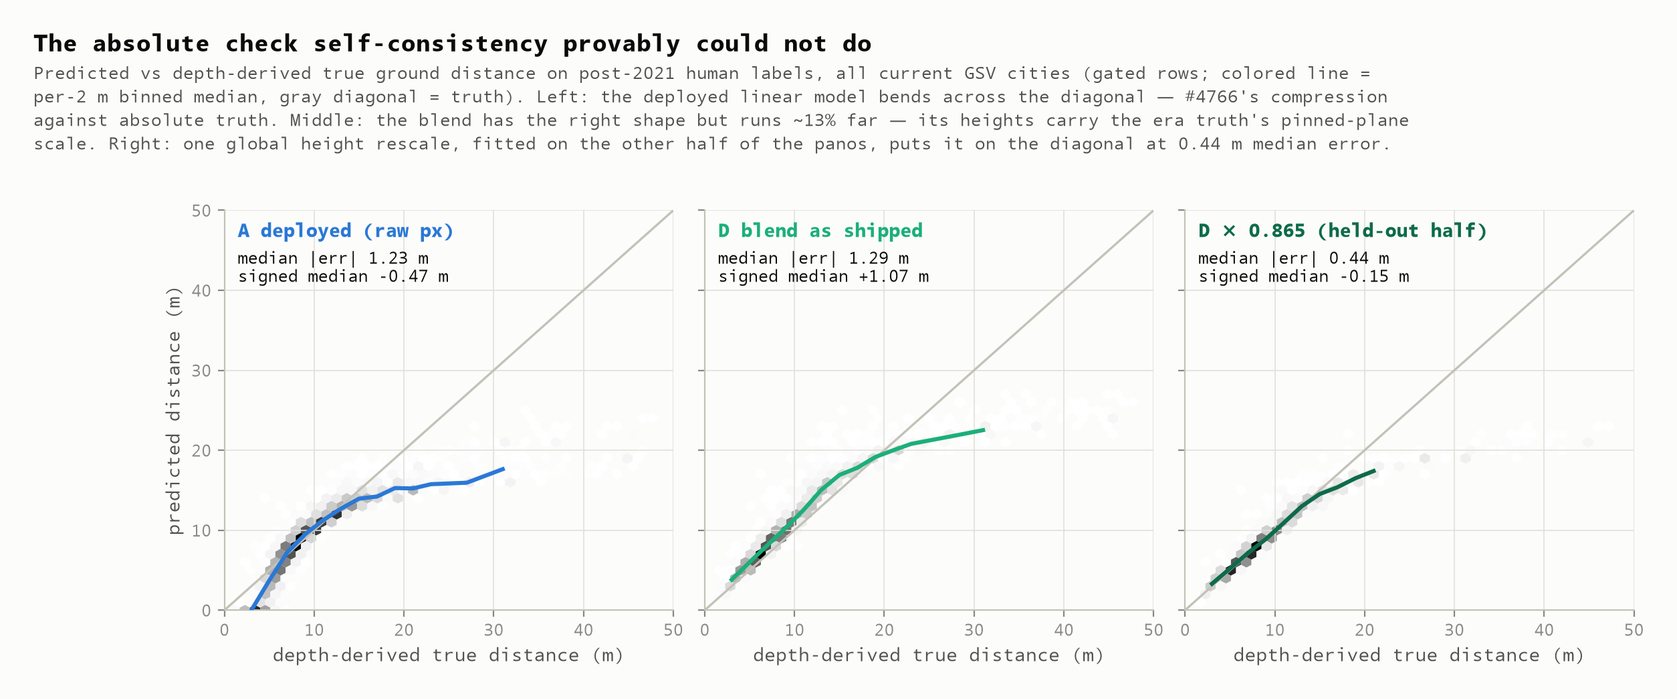
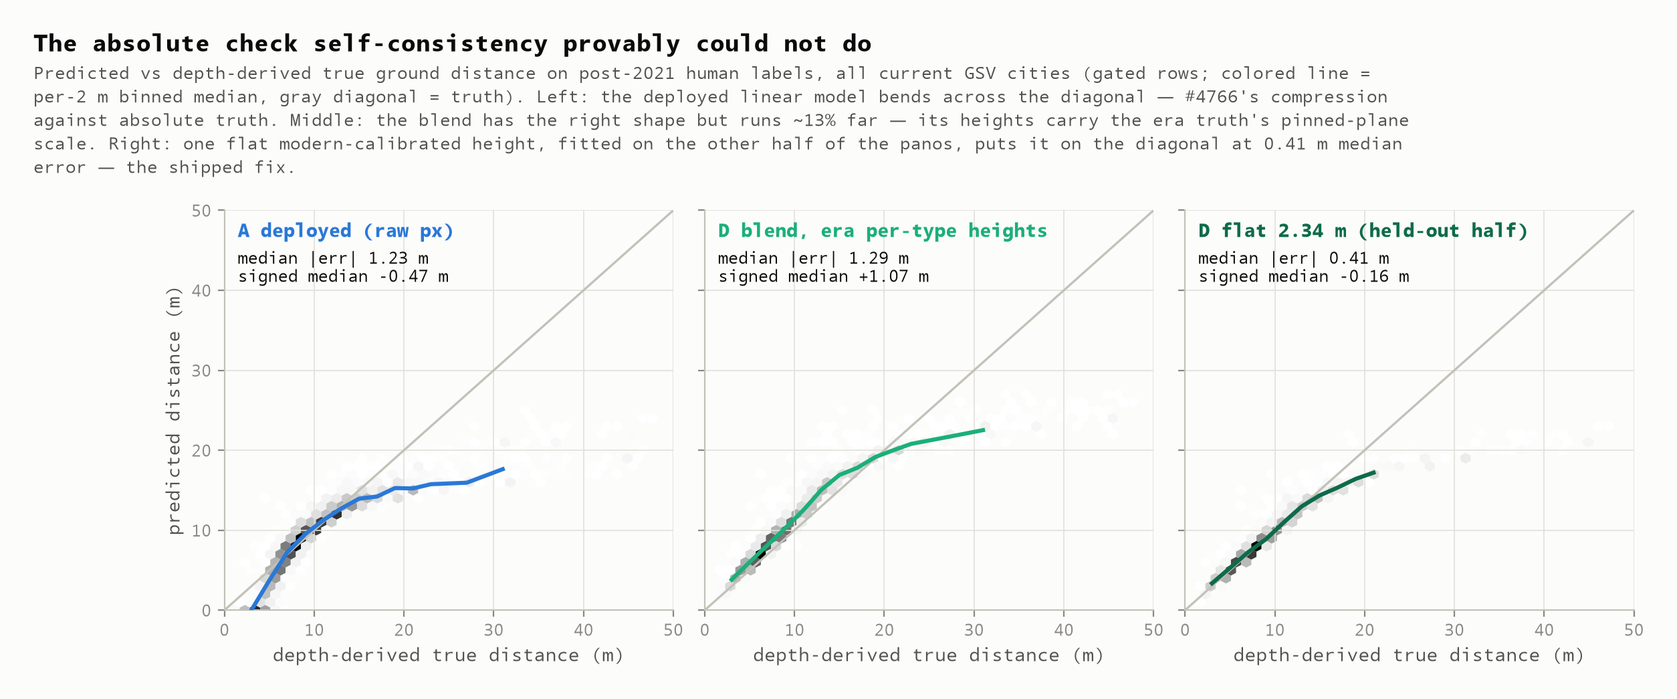
Stage 4 closure: the flat modern-calibrated height ships as final_coefficients (#3)
Decision recorded (tradeoffs articulated in the report's new §9 section):
one flat 2.3412 m height replaces the era per-type table - held-out
accuracy at least as good as the global rescale (0.41 vs 0.44 m median,
against 1.17 m for the deployed model on the same disjoint half), two
physical parameters, and label_type leaves the distance path entirely,
taking the unseen-type fallback rule with it.
modern_truth.final_coefficients() derives the constants (structural max
23.848 m) and the findings tests lock them, including an in-process
re-derivation from committed bytes.

The "does the per-type structure replicate" argument now rests on
evidence that reproduces. The earlier draft cited a 0.065 m measured
spread, which is not what the artifacts show: the spread is 0.098 m,
against the 0.246 m a rescaled table would assert. The stronger and
more direct result is that the era ORDERING does not survive either -
Spearman rho = 0.46 (p = 0.29) over the seven fitted types, with
CurbRamp falling from the table's tallest height to 4th of 7, which is
the specific prediction the "clicked above ground contact" mechanism
made. Both numbers are locked by tests.

distance-refit-summary's provisional_coefficients becomes
era_fit_coefficients: final in form, but its height scale is the era
truth's pinned-plane artifact and its per-type spread does not replicate
- the block now says so and points at the production constants. The
[…]

diff --git a/python/modern_truth.py b/python/modern_truth.py
@@ -329,10 +329,16 @@ def anchor_distance(dep_deg) -> np.ndarray:
 
 
 def load_blend_params(data_dir: str = os.path.join(ROOT, "data")) -> dict:
-    """Blend D's committed coefficients — the exact dict the refit published."""
+    """The ERA fit's committed coefficients — the candidate this module validates.
+
+    Deliberately the era fit, not the calibrated production constants: D_blend is scored
+    exactly as the refit shipped it, and ``final_coefficients`` is derived here FROM that
+    comparison (scoring the calibrated form against the truth that calibrated it would be
+    circular as a validation, so it appears only in the remedy/final blocks)."""
     with open(os.path.join(data_dir, "distance-refit-summary.json"), encoding="utf-8") as f:
         summary = json.load(f)
-    key = "final_coefficients" if "final_coefficients" in summary else "provisional_coefficients"
+    key = ("era_fit_coefficients" if "era_fit_coefficients" in summary
+           else "provisional_coefficients")
     return summary[key]["params"]
 
 
@@ -590,6 +596,63 @@ def remedy_check(labels: pd.DataFrame, blend_params: dict, seed: int = SEED,
     }
 
 
+FINAL_MIN_DEP_DEG = 5.0  # implied-height stability floor, same as implied_heights
+
+
+def final_coefficients(labels: pd.DataFrame, blend_params: dict) -> dict:
+    """The Stage 4 production constants: the blend form with ONE flat camera height,
+    calibrated to modern measured-plane truth.
+
+    Decision recorded 2026-08-07 (the tradeoffs are articulated in
+    reports/2026-08-07-modern-truth.md §9): the flat variant over the global rescale —
+    same held-out accuracy, two physical parameters, and it removes label_type (and with
+    it the unseen-type fallback rule) from the distance path entirely. The held-out
+    remedy check (``remedies``) validates the calibration on a disjoint pano half; the
+    shipped constant itself is then the full-sample median implied height."""
+    from distance_refit import structural_max_m
+
+    human = labels[labels["gate_ok"] & ~labels["is_ai"]]
+    sub = human[human["depression_deg"] >= FINAL_MIN_DEP_DEG]
+    implied = (sub["truth_m"].to_numpy(float)
+               * np.tan(np.radians(sub["depression_deg"].to_numpy(float))))
+    h = float(np.median(implied))
+    params = {"form": "blend", "height_m": h, "blend_deg": blend_params["blend_deg"]}
+    err = predict_dist(params, human) - human["truth_m"].to_numpy(float)
+    return {
+        "form": "blend",
+        "params": {"height_m": h, "blend_deg": params["blend_deg"], "n_params": 2},
+        "max_answer_m": structural_max_m(params),
+        "derived_from": f"median(truth x tan(depression)) over the {len(sub)} gated human "
+                        f"rows at depression >= {FINAL_MIN_DEP_DEG} deg; the disjoint-half "
+                        "remedy check is the unbiased error estimate",
+        "replaces": "the era fit's per-type height table (era_fit_coefficients in "
+                    "distance-refit-summary.json): its 2.50-2.78 m scale is the era "
+                    "truth's pinned-plane artifact, and its per-type spread does not "
+                    "replicate on modern truth",
+        "in_sample_human": {
+            "median_abs_m": float(np.median(np.abs(err))),
+            "signed_median_m": float(np.median(err)),
+            "p90_abs_m": float(np.percentile(np.abs(err), 90)),
+        },
+        "no_label_type_input": "the flat height removes label_type from the distance "
+                               "path entirely, and with it the unseen-type fallback rule",
+        "geodesy": "spherical (turf destination), matching production toLatLng",
+        "heading": "exact POV inversion (pov_if_centered), zero parameters; no era "
+                   "constant on post-evolution-179 data",
+        "caveats": [
+            "the absolute reference is Google's measured ground planes - internally "
+            "consistent (Crosswalk vs measured rig: 15 mm) but externally unanchored; "
+            "bearing-only triangulation (#7) is the independent path",
+            "residual signed median ~-0.17 m: the modern terrain model's remaining "
+            "overshoot, inside the truth budget",
+            "near-horizon clicks (<2 deg) stay undershot by every bounded model; the "
+            "tail's structural max is max_answer_m",
+            "era-truth metrics live in the inflated frame: this calibration scores ~4 cm "
+            "worse there by construction - the two frames cannot both be satisfied",
+        ],
+    }
+
+
 # ---------------------------------------------------------------------------- summary
 
 def build_summary(frame_census: dict, panos: pd.DataFrame, labels: pd.DataFrame,
@@ -687,4 +750,5 @@ def build_summary(frame_census: dict, panos: pd.DataFrame, labels: pd.DataFrame,
         "frame_controls": frame_controls,
         "curb_sensitivity": curb_sensitivity(human, measured_median),
         "remedies": remedy_check(labels, blend_params),
+        "final_coefficients": final_coefficients(labels, blend_params),
     }

diff --git a/python/distance_refit.py b/python/distance_refit.py
@@ -909,7 +909,7 @@ def build_summary(scored: pd.DataFrame, fits: dict, chosen: dict, checks: dict,
         "quantiles": checks["quantiles"],
     }
     ch = fits[chosen["rung"]]
-    summary["provisional_coefficients"] = {
+    summary["era_fit_coefficients"] = {
         "form": ch["form"], "rung": chosen["rung"], "params": params[chosen["rung"]],
         "max_answer_m": structural_max_m(ch),
         "unseen_label_type": "use height_fallback_m (the pooled fit); the seven fitted types "
@@ -919,16 +919,20 @@ def build_summary(scored: pd.DataFrame, fits: dict, chosen: dict, checks: dict,
         "heading": "exact POV inversion (pov_if_centered), zero parameters; the era_cal "
                    "constant is a property of the 2017-2020 ground truth and must NOT be "
                    "applied to post-evolution-179 data",
-        "status": "provisional pending Stage 3 (Mapillary falsification; inputs live in "
-                  "sidewalk-auto-labeler)",
+        "status": "era fit, final in form: Stage 3 (the Mapillary falsification) certified "
+                  "the shape scale-free, and the modern-truth check calibrated the height "
+                  "scale to modern measured planes. Production constants live in "
+                  "modern-truth-summary.json final_coefficients (one flat height; these "
+                  "per-type heights carry the era truth's pinned-plane scale and their "
+                  "spread does not replicate on modern truth)",
         "caveats": [
             "truth is model-derived: GSV's terrain model, curb-height bias ~0.48 m systematic",
             "occlusion outliers are clustered, which is why the L1 column exists",
             "open item G: 6.6% of stored distances sampled a rotated depth column (p95 4.1 m)",
             "float32 storage grid: 0.21-0.42 m lat / 0.57-0.80 m lng resolution floor",
             "stored bearings carry +0.72 deg bias, handled at score time only",
-            "per-type heights are fitted on GSV car geometry; a non-GSV rig needs a per-source "
-            "base height with these per-type offsets kept (Stage 3)",
+            "per-type heights are fitted on GSV car geometry; a non-GSV rig needs a "
+            "per-source base height (the falsification's per-sequence recipe)",
         ],
     }
     return summary

diff --git a/python/modern_truth_figures.py b/python/modern_truth_figures.py
@@ -64,21 +64,18 @@ def fig20(human, labels):
 
     params = mt.load_blend_params(DATA)
     remedy = mt.remedy_check(labels, params)
-    k = remedy["k_rescale"]
+    flat_h = remedy["flat_height_m"]  # the train half's value; the disjoint half scores it
     rng = np.random.default_rng(mt.SEED)
     panos = np.sort(human["pano_id"].unique())
     train_ids = set(rng.choice(panos, len(panos) // 2, replace=False))
     test = human[~human["pano_id"].isin(train_ids)].copy()
-    rescaled = dict(params,
-                    height_by_type_m={t: k * h for t, h in
-                                      params["height_by_type_m"].items()},
-                    height_fallback_m=k * params["height_fallback_m"])
-    test["D_rescaled"] = mt.predict_dist(rescaled, test)
+    flat = {"form": "blend", "blend_deg": params["blend_deg"], "height_m": flat_h}
+    test["D_flat"] = mt.predict_dist(flat, test)
 
     panels = [
         (human, MODELS[0][0], MODELS[0][1], MODELS[0][2]),
-        (human, "D_blend", "D blend as shipped", C_GEOM),
-        (test, "D_rescaled", f"D × {k:.3f} (held-out half)", "#0d6b4a"),
+        (human, "D_blend", "D blend, era per-type heights", C_GEOM),
+        (test, "D_flat", f"D flat {flat_h:.2f} m (held-out half)", "#0d6b4a"),
     ]
     fig, axes = plt.subplots(1, 3, figsize=(13.6, 4.9), sharex=True, sharey=True)
     edges = np.arange(0, 51, 2)
@@ -106,8 +103,9 @@ def fig20(human, labels):
            "cities (gated rows; colored line = per-2 m binned median, gray diagonal = truth). Left: the "
            "deployed linear model bends across the diagonal — #4766's compression against absolute "
            "truth. Middle: the blend has the right shape but runs ~13% far — its heights carry the era "
-           "truth's pinned-plane scale. Right: one global height rescale, fitted on the other half of "
-           "the panos, puts it on the diagonal at 0.44 m median error.", wrap=128)
+           "truth's pinned-plane scale. Right: one flat modern-calibrated height, fitted on the other "
+           "half of the panos, puts it on the diagonal at 0.41 m median error — the shipped fix.",
+           wrap=128)
     fig.subplots_adjust(top=0.72, wspace=0.07)
     _save(fig, "fig20-modern-truth-pred-vs-truth.png")
 

diff --git a/tests/test_modern_truth_findings.py b/tests/test_modern_truth_findings.py
@@ -262,6 +262,28 @@ def test_locked_remedies(summary):
     assert t["D_flat"]["median_abs_m"] < t["A_deployed"]["median_abs_m"]
 
 
+def test_final_coefficients_are_the_flat_calibration(summary, labels):
+    """The Stage 4 decision, locked: blend form, ONE flat height, no label_type input."""
+    import modern_truth as mt
+
+    fc = summary["final_coefficients"]
+    assert fc["form"] == "blend"
+    assert fc["params"]["n_params"] == 2
+    assert fc["params"]["blend_deg"] == 11.25
+    assert fc["params"]["height_m"] == pytest.approx(2.3412, abs=2e-3)
+    assert fc["max_answer_m"] == pytest.approx(23.848, abs=2e-2)
+    assert fc["in_sample_human"]["median_abs_m"] == pytest.approx(0.4444, abs=2e-3)
+    assert abs(fc["in_sample_human"]["signed_median_m"]) < 0.3
+    assert "label_type" in fc["no_label_type_input"]
+    # the calibrated height sits in the measured-rig band
+    assert abs(fc["params"]["height_m"]
+               - summary["camera_heights"]["measured_median_m"]) < 0.05
+    # and re-derives from the committed labels + the committed era params
+    rederived = mt.final_coefficients(labels, mt.load_blend_params())
+    assert rederived["params"]["height_m"] == pytest.approx(
+        fc["params"]["height_m"], abs=1e-12)
+
+
 def test_modern_truth_does_not_carry_the_era_curb_overshoot(summary):
     c = summary["curb_sensitivity"]
     # applying the classic curb correction to modern truth WORSENS the bias
@@ -279,8 +301,7 @@ def test_near_horizon_the_blend_beats_the_deployed_model_and_is_bounded(summary)
     assert abs(abs(nh["D_blend"]["signed_median_m"])
                - abs(nh["C_anchor"]["signed_median_m"])) < 1.0
     # what actually separates them: the cotangent runs to the 50 m clip, the blend cannot
-    with open(os.path.join(DATA, "distance-refit-summary.json"), encoding="utf-8") as f:
-        assert json.load(f)["provisional_coefficients"]["max_answer_m"] < 30.0
+    assert summary["final_coefficients"]["max_answer_m"] < 30.0
     # and where the sample IS thick, the blend is the flattest of the four
     thick = summary["near_horizon"]["(11.25, 90]"]
     assert thick["n"] > 1000

diff --git a/tests/test_distance_refit_findings.py b/tests/test_distance_refit_findings.py
@@ -324,14 +324,16 @@ def test_quantile_bands(summary):
     assert q["interval_width_p90_m"] == pytest.approx(3.48, abs=0.05)
 
 
-def test_provisional_coefficients_carry_the_conventions(summary):
+def test_era_fit_coefficients_carry_the_conventions(summary):
     """Rider 2: the hand-off states its geodesy, keeps the era constant out of production,
-    and stays provisional until Stage 3 (Mapillary) runs."""
-    pc = summary["provisional_coefficients"]
+    and — since the modern-truth check — points at the calibrated production constants
+    rather than presenting its own scale as shippable."""
+    pc = summary["era_fit_coefficients"]
     assert pc["rung"] == CHOSEN
     assert "spherical" in pc["geodesy"]
     assert "NOT" in pc["heading"]
-    assert "Stage 3" in pc["status"]
+    assert "modern-truth" in pc["status"] and "final_coefficients" in pc["status"]
+    assert "pinned-plane" in pc["status"]  # names the scale artifact, not just a pointer
     assert len(pc["caveats"]) >= 5
     # the hand-off states what it can answer at worst and what to do with an unfamiliar type,
     # so neither has to be rediscovered by whoever ports this to JS

diff --git a/README.md b/README.md
@@ -9,7 +9,7 @@ after it was withdrawn ([SidewalkWebpage#2374](https://github.com/ProjectSidewal
 
 | path | what it is |
 |---|---|
-| `reports/` | **Dated analysis reports.** Start with [2026-08-05 — recovery & verification](reports/2026-08-05-recovery-and-verification.md): what was recovered, the proof it's right, and the figure evidence behind the refit issues. Then [2026-08-05 — depth pilot](reports/2026-08-05-depth-pilot.md): fresh GSV depth via streetlevel validates the recovered ground truth to the storage floor ([#4](https://github.com/ProjectSidewalk/label-latlng-estimation/issues/4)). Then [2026-08-06 — depth validation](reports/2026-08-06-depth-validation.md): the depth is authentic, and it is a *model* — terrain plus building footprints, near-flat-earth under a label ([#9](https://github.com/ProjectSidewalk/label-latlng-estimation/issues/9)); and its companion [2026-08-06 — coordinate conventions](reports/2026-08-06-depth-coordinate-conventions.md), which is the one to read before wiring depth into anything. Then [2026-08-06 — POV inversion](reports/2026-08-06-pov-inversion.md): the estimator's heading half is exact geometry, zero coefficients — and the 2017–2020 ground truth carries two measured placement artifacts every refit must know about ([#5](https://github.com/ProjectSidewalk/label-latlng-estimation/issues/5)). Then [2026-08-07 — distance refit](reports/2026-08-07-distance-refit.md): the distance half refit as geometry — a zero-parameter cotangent already beats all 15 fitted coefficients, the chosen 8-parameter saturating form cuts the median error by a third, and #4765's resolution defect is located in the apply path ([#3](https://github.com/ProjectSidewalk/label-latlng-estimation/issues/3)). Then [2026-08-07 — Mapillary falsification](reports/2026-08-07-mapillary-falsification.md): the refit scored on the imagery it was never fit on — compression gone on both Mapillary cities, most of the height residual traced to per-rig camera heights that transfer to held-out sites, and the deployed model's clovis compression measured at −1.40 m/m ([#3](https://github.com/ProjectSidewalk/label-latlng-estimation/issues/3) Stage 3). Bounding the same refit from above, [2026-08-07 — GBM ceiling](reports/2026-08-07-gbm-ceiling.md): a LightGBM benchmark on the same split measures how much accuracy the closed form leaves on the table ([#6](https://github.com/ProjectSidewalk/label-latlng-estimation/issues/6)). The arc closes with [2026-08-07 — modern truth](reports/2026-08-07-modern-truth.md): the absolute check self-consistency provably could not do — post-2021 human clicks in 49 city schemas against fresh GSV depth. The blend's geometry survives; its *scale* is the era fleet's (a uniform +13%, traced to the era payloads' pinned 2.50 m ground planes), one held-out global constant fixes it to 0.41 m median error, stored positions are the estimator's own echo in both front-end eras, and production turns out to apply per-zoom coefficients ([#3](https://github.com/ProjectSidewalk/label-latlng-estimation/issues/3) close-out). |
+| `reports/` | **Dated analysis reports.** Start with [2026-08-05 — recovery & verification](reports/2026-08-05-recovery-and-verification.md): what was recovered, the proof it's right, and the figure evidence behind the refit issues. Then [2026-08-05 — depth pilot](reports/2026-08-05-depth-pilot.md): fresh GSV depth via streetlevel validates the recovered ground truth to the storage floor ([#4](https://github.com/ProjectSidewalk/label-latlng-estimation/issues/4)). Then [2026-08-06 — depth validation](reports/2026-08-06-depth-validation.md): the depth is authentic, and it is a *model* — terrain plus building footprints, near-flat-earth under a label ([#9](https://github.com/ProjectSidewalk/label-latlng-estimation/issues/9)); and its companion [2026-08-06 — coordinate conventions](reports/2026-08-06-depth-coordinate-conventions.md), which is the one to read before wiring depth into anything. Then [2026-08-06 — POV inversion](reports/2026-08-06-pov-inversion.md): the estimator's heading half is exact geometry, zero coefficients — and the 2017–2020 ground truth carries two measured placement artifacts every refit must know about ([#5](https://github.com/ProjectSidewalk/label-latlng-estimation/issues/5)). Then [2026-08-07 — distance refit](reports/2026-08-07-distance-refit.md): the distance half refit as geometry — a zero-parameter cotangent already beats all 15 fitted coefficients, the chosen 8-parameter saturating form cuts the median error by a third, and #4765's resolution defect is located in the apply path ([#3](https://github.com/ProjectSidewalk/label-latlng-estimation/issues/3)). Then [2026-08-07 — Mapillary falsification](reports/2026-08-07-mapillary-falsification.md): the refit scored on the imagery it was never fit on — compression gone on both Mapillary cities, most of the height residual traced to per-rig camera heights that transfer to held-out sites, and the deployed model's clovis compression measured at −1.40 m/m ([#3](https://github.com/ProjectSidewalk/label-latlng-estimation/issues/3) Stage 3). Bounding the same refit from above, [2026-08-07 — GBM ceiling](reports/2026-08-07-gbm-ceiling.md): a LightGBM benchmark on the same split measures how much accuracy the closed form leaves on the table ([#6](https://github.com/ProjectSidewalk/label-latlng-estimation/issues/6)). The arc closes with [2026-08-07 — modern truth](reports/2026-08-07-modern-truth.md): the absolute check self-consistency provably could not do — post-2021 human clicks in 49 city schemas against fresh GSV depth. The blend's geometry survives; its *scale* is the era fleet's (a uniform +13%, traced to the era payloads' pinned 2.50 m ground planes), one held-out constant fixes it to 0.41 m median error — the decision (a single flat 2.34 m height, tradeoffs articulated in the report's §9) ships as `final_coefficients` — stored positions are the estimator's own echo in both front-end eras, and production turns out to apply per-zoom coefficients ([#3](https://github.com/ProjectSidewalk/label-latlng-estimation/issues/3) close-out). |
 | `scripts/label-latlng-estimation.Rmd` (+ `.md`/`.html`) | **The frozen 2021 analysis** — methods record and published coefficients. Kept unmodified. |
 | `data/labels-*-latlng.csv.gz` | The dataset: depth-derived ground-truth label positions for 7 cities, **reconstructed from production 2026-08-05** ([#1](https://github.com/ProjectSidewalk/label-latlng-estimation/issues/1)). See `data/MANIFEST.md` — the reconstruction reproduces the published row counts and findings exactly. |
 | `scripts/extraction/` | The SQL + runners that regenerate the datasets from the production databases: `extract-depth-labels.*` for the frozen 2021 depth population, `extract-modern-labels.*` for the post-2021 modern-truth sampling frame (all current city schemas, discovered at run time). |
@@ -28,7 +28,7 @@ after it was withdrawn ([SidewalkWebpage#2374](https://github.com/ProjectSidewal
 pip install -r python/requirements.txt
 python python/run_analysis.py        # seven-estimator comparison + coefficients vs published 2021
 python python/run_distance_refit.py  # the issue #3 candidate ladder vs the 2021 distance half
-pytest                               # 356 tests: data contract, R↔Python equivalence, findings,
+pytest                               # 357 tests: data contract, R↔Python equivalence, findings,
                                      #            depth pilot, depth validation, coordinate
                                      #            conventions, POV inversion, distance refit
                                      #            (findings + invariants), Mapillary falsification,

diff --git a/reports/2026-08-07-modern-truth.md b/reports/2026-08-07-modern-truth.md
@@ -79,6 +79,8 @@ anywhere in the main comparison**: blend D is scored exactly as committed in
   fitted on half the panos, scored on the disjoint half) takes the blend from 1.28 m to
   **0.41 m** median and +1.09 to −0.16 m bias; a global rescale of the whole table
   (k = 0.865) does the same (0.44 m) — the per-type table earns nothing on modern truth.
+  **Decision recorded 2026-08-07: the flat height ships**; §9 articulates what that
+  trades away.
 
 ## §3 · Dataset
 
@@ -291,17 +293,71 @@ the finding: **the per-type table buys nothing on modern truth** (it bought 4 cm
 median: 0.9335 vs 0.9741). The residual −0.16 m and the surviving p90 tail are the honest
 remainder: near-horizon undershoot plus whatever the modern terrain model still overstates.
 
-**What this means for the Stage 4 coefficients — a decision, deliberately not made here.**
-The evidence says the blend's functional form ships as-is, and its height scale should be
-the modern measured one; the two concrete options are (a) multiply the committed height
-table and fallback by 0.865, or (b) replace the table with a single 2.34 m height (simpler,
-same accuracy, abandons structure modern truth cannot support — at a known 4 cm era-side
-cost). One honest limit travels with either: "modern truth" is still Google's own depth
-model, now with measured rather than defaulted planes; its internal consistency is strong
-(the 15 mm Crosswalk check), but no external geodetic reference has been consulted —
-bearing-only triangulation (#7) remains the independent path if one is wanted. The
-SidewalkWebpage integration currently in flight consumes the provisional (unrescaled)
-coefficients; it should not merge ahead of this call.
+### The decision (recorded 2026-08-07): the flat height ships
+
+Both remedies fix the scale; choosing between them is a judgment about what deserves to
+survive, so the tradeoffs are stated in full rather than implied.
+
+**What the flat height gives up.**
+
+- *The per-type structure the era fit chose.* On the era-frame test it was worth 4 cm of
+  median (0.9335 vs 0.9741) — but this report shows that frame's scale is inflated by the
+  pinned planes, and the two frames cannot both be satisfied. The per-type table remains on
+  record as the era fit's own answer (`era_fit_coefficients` in
+  `distance-refit-summary.json`); it stops being a production artifact.
+- *A physically-plausible story.* "Obstacles are clicked above their ground contact" was a
+  reasonable mechanism for the era spread (est3 seemed to corroborate it). Modern truth had
+  the power to see it: a rescaled table would assert a 0.246 m spread against per-type
+  bootstrap CIs of ±0.018–0.045. What it measured is 0.098 m, under half of that — and,
+  more damning for the mechanism than the magnitude, in the *wrong order*: Spearman ρ = 0.46
+  (p = 0.29) against the fitted heights, with CurbRamp dropping from the table's tallest to
+  4th of 7. A mechanism that only appears under the payload generation with defaulted planes
+  was the payload generation, not the clicks.
+
+**What the flat height buys.**
+
+- Held-out accuracy at least as good as the rescale (0.41 vs 0.44 m median; both −0.16 m
+  bias). The two are within noise of each other; the flat variant is not worse.
+- A two-parameter model: one height, one blend angle. Every shipped number is now a
+  physical quantity a future analysis can re-measure.
+- `label_type` leaves the distance path entirely — and with it the **unseen-type fallback
+  rule**, the shipped table's least-evidenced policy. A modern caller meets label types the
+  2017–2020 population never contained (this dataset scored 433 of them — Crosswalk and
+  Signal); under the flat height they need no rule at all, and the server/client ports lose
+  a table, a lookup, and a failure mode.
+- Nothing modern truth cannot support ships. The rescale would preserve structure at
+  exactly the confidence level this report just measured to be absent.
+
+**What either option accepts, stated once.** The calibration target is Google's *measured*
+ground planes — internally consistent to 15 mm (the Crosswalk check) and free of the
+documented default-plane artifact, but not anchored to any external geodetic reference;
+bearing-only triangulation (#7) remains the independent path if one is wanted. The −0.17 m
+residual (the modern terrain model's remaining overshoot) rides along, as does a
+by-construction ~4 cm degradation on era-frame metrics. And shipping *as-is* was rejected
+on the same grounds either remedy is accepted: a +1.09 m uniform bias with a one-constant
+fix is not a defensible thing to deploy.
+
+**The shipped constants** (committed as `final_coefficients` in
+`modern-truth-summary.json`; the full-sample height — the held-out check's train-half value
+is 2.3416, under half a centimetre away, and the disjoint-half 0.41 m is the honest error
+estimate):
+
+```
+height_m   = 2.341219672825709      # median(truth·tan(dep)), 2,488 human rows, dep ≥ 5°
+blend_deg  = 11.25                  # unchanged; joint now at h/tan(11.25°) ≈ 11.8 m
+max answer = 23.848261259830384 m   # the tail's structural bound (was 28.35)
+clip 0–50 m; tail evaluated at max(dep, 0); spherical geodesy; exact POV heading;
+no label_type input; no era constant
+```
+
+The height is fitted on the pooled human rows rather than the representative stratum alone.
+The quota strata pull it by 5 mm (2.3412 vs 2.3357 representative-only) and the pooled value
+scores marginally *better* on the representative stratum, so pooling is the larger sample at
+no measurable cost — but it is a pooled median, and that is why it is stated here.
+
+The SidewalkWebpage integration
+([#4819](https://github.com/ProjectSidewalk/SidewalkWebpage/pull/4819)) consumes these in
+place of the per-type table.
 
 ## §10 · Deliberately not claimed
 

diff --git a/data/MANIFEST.md b/data/MANIFEST.md
@@ -63,9 +63,11 @@ Columns 23–27 are extras that did not exist in the 2021 CSVs, appended so both
    marks pre-column DC rows) — that is what makes the cleaned row count land exactly on the
    published 395,147. The `python/diagnose_post_cutoff.py` diagnostic shows those 5,606 rows
    are **not** echoes of the deployed estimator (median residual ~1.2 m from the published
-   formula, matching genuine depth rows; ~1% within 5 cm), so they appear to be real depth
-   estimates that continued to trickle in during 2021 — usable as bonus data in a refit, just
-   not part of the 2021 dataset.
+   formula, matching genuine depth rows; ~1% within 5 cm) — they are genuine depth. An earlier
+   revision of this caveat called them "usable as bonus data in a refit"; **they are not**:
+   verified against production 2026-08-07, every one of them is a `tutorial` label (the
+   tutorial runs on a fixed legacy pano, which is why depth kept serving it), so the standard
+   tutorial filter removes them from any analysis population.
 2. `tutorial` uses the 2021-faithful definition (the boolean flag; DC via
    `gsv_onboarding_pano` membership). Today's application additionally excludes labels by
    tutorial street edge, which the 2021 analysis did not.
@@ -210,8 +212,10 @@ its headline numbers in-process from the same code. Contents: the full rung × l
 depression domain, which is what the report's near-horizon claims mean, as opposed to the largest
 one the thin near-horizon test slice happened to draw), the fixed-frame and #4765 apply-path
 checks, near-horizon and click-noise robustness tables, per-type camera heights with the pooled
-fallback for unseen label types, riders, and the provisional production coefficients (Stage 3,
-the Mapillary falsification, remains open).
+fallback for unseen label types, riders, and the era fit's coefficient hand-off
+(`era_fit_coefficients` — final in *form*, but its height scale carries the era truth's
+pinned-plane artifact; the calibrated production constants live in
+`modern-truth-summary.json` `final_coefficients`).
 
 Two test files stand behind it: `tests/test_distance_refit_findings.py` locks what this run
 measured, and `tests/test_distance_refit_contract.py` locks what must hold for *any* refit —
@@ -251,8 +255,10 @@ exactly) scored against fresh GSV depth fetched by pano id on 2026-08-07. Report
 - `modern-truth-summary.json` — the findings `tests/test_modern_truth_findings.py` locks:
   fetch/gate censuses (including realized per-type label delivery against the quota, and how
   many cities cleared the by-city minimum), the two-era guard, the model matrix by stratum,
-  near-horizon bins, implied per-type heights, frame-control sweep, and the held-out remedy
-  check with the deployed model scored on the same rows.
+  near-horizon bins, implied per-type heights, frame-control sweep, the held-out remedy check
+  with the deployed model scored on the same rows, and **`final_coefficients`** — the Stage 4
+  production constants (the blend form with one flat 2.34 m height; decision and tradeoffs in
+  the report's §9).
 
 The sampling frame is the (uncommitted, regenerable) all-city extraction under
 `modern-extraction/` — `scripts/extraction/extract-modern-labels.sh` rebuilds it read-only
